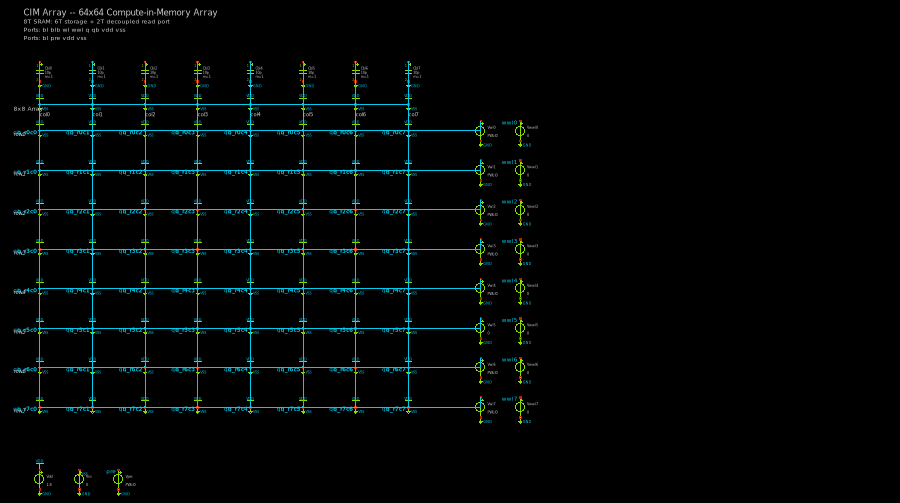
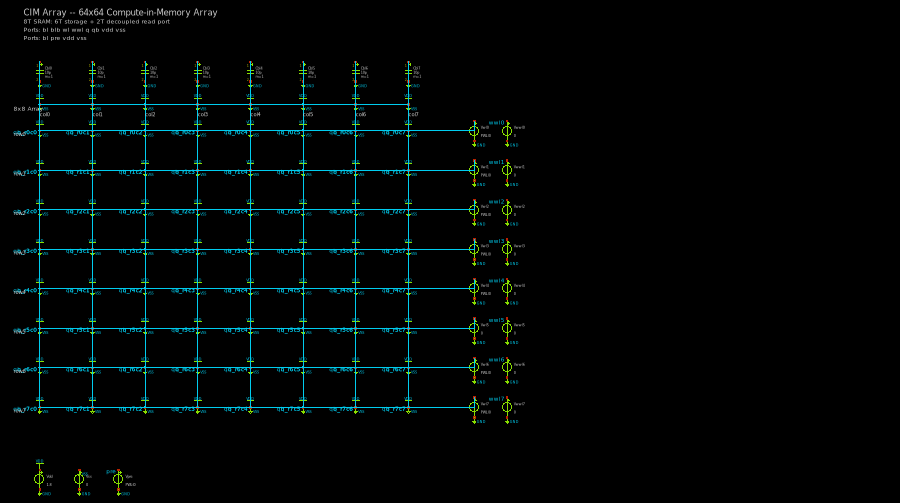
Tighter array row periphery spacing (100 instead of 120)
Array periphery components closer to the grid edge.
All 0 crossings.

Changed region(s): [[0.5289, 0.4771, 0.5911, 0.6859], [0.5289, 0.2386, 0.5911, 0.4473], [0.5289, 0.7157, 0.5911, 0.8648]]

diff --git a/src/placer.py b/src/placer.py
@@ -1084,11 +1084,11 @@ def _place_array_circuit(circuit: Circuit, array_info: dict) -> PlacedCircuit:
                 y=_snap(array_top - 80 - i * 100)
             )
 
-    # Row periphery: place to the right of array, close
+    # Row periphery: place to the right of array, compact
     for row, names in row_per.items():
         for i, name in enumerate(names):
             result.placements[name] = Placement(
-                x=_snap(array_left + cols * cell_h + 60 + i * 120),
+                x=_snap(array_left + cols * cell_h + 40 + i * 100),
                 y=_snap(array_top + row * cell_v)
             )
 
